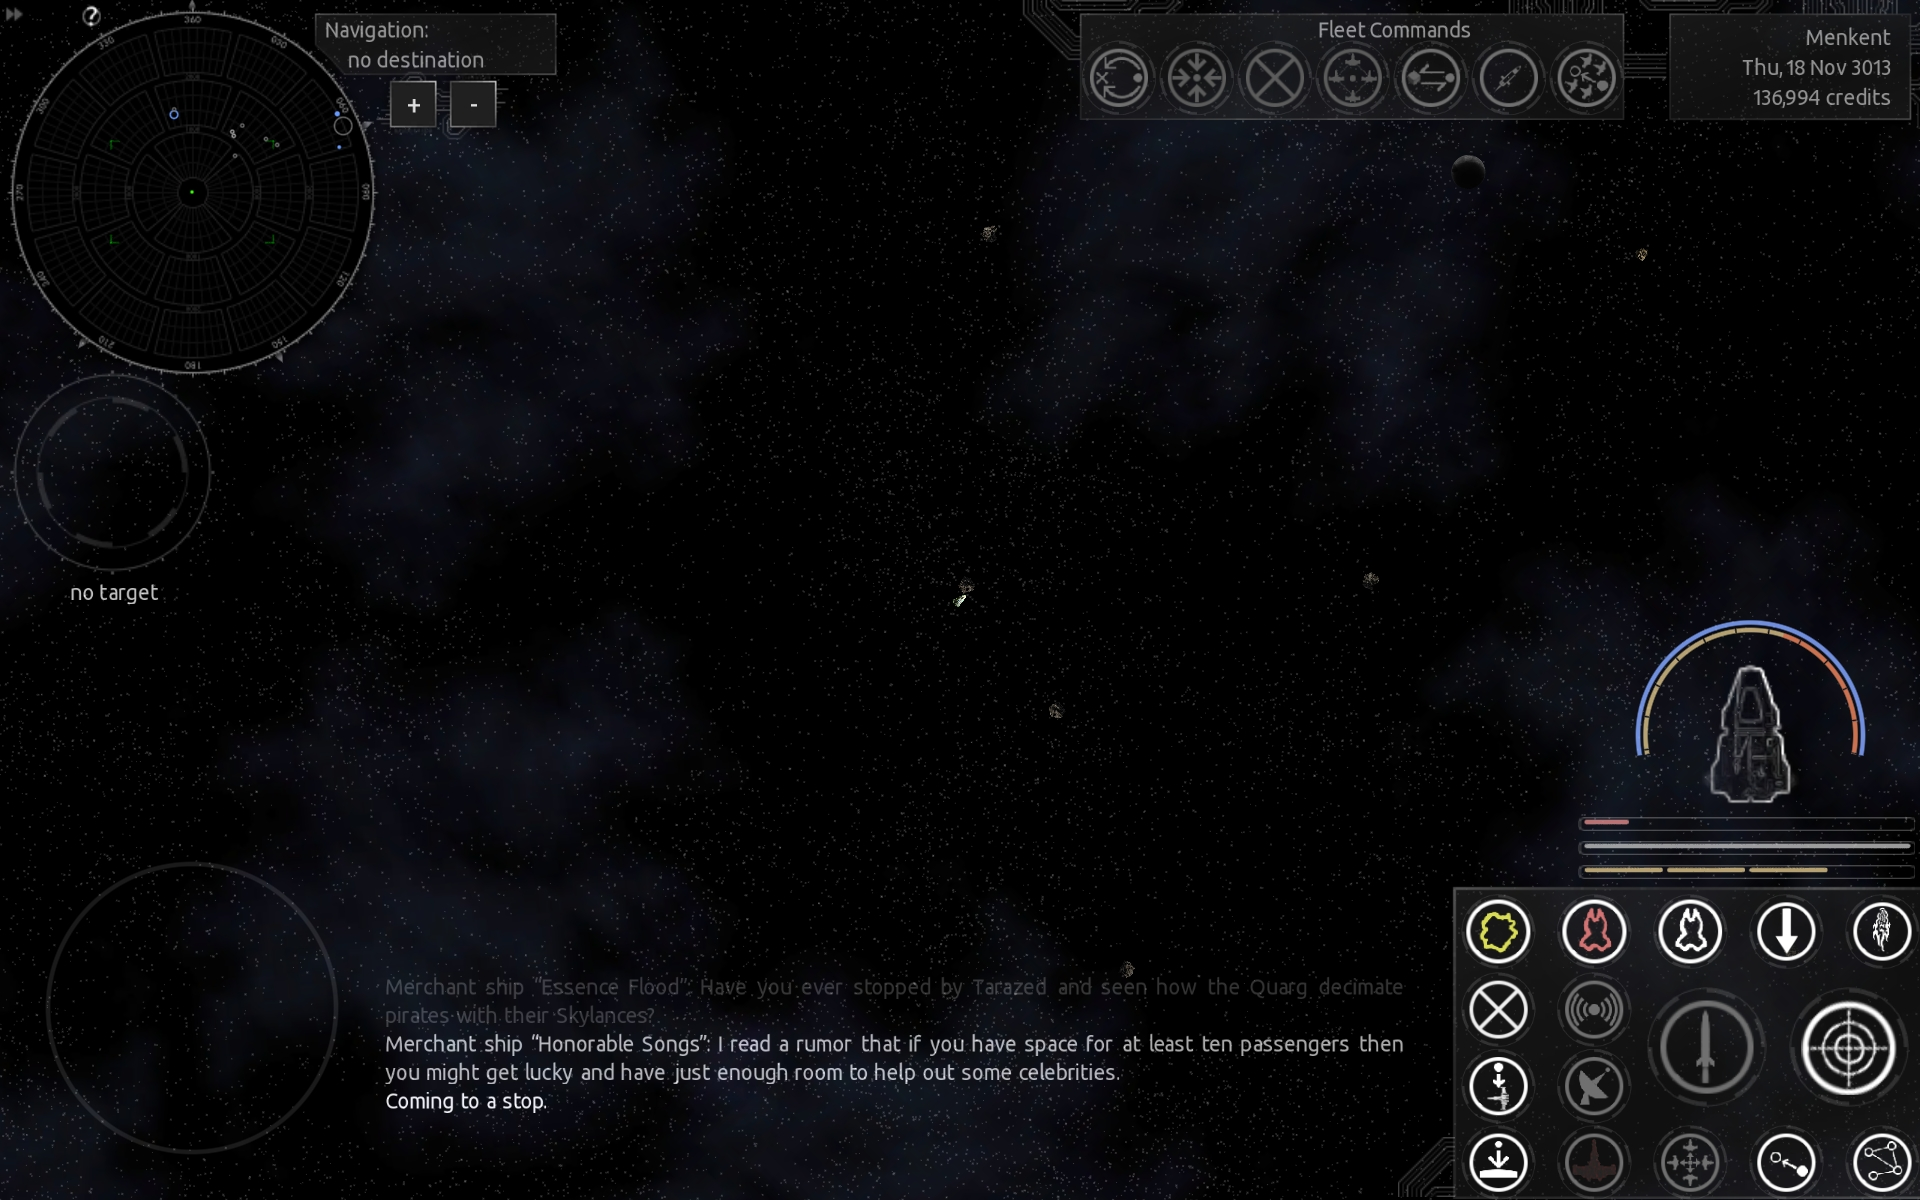
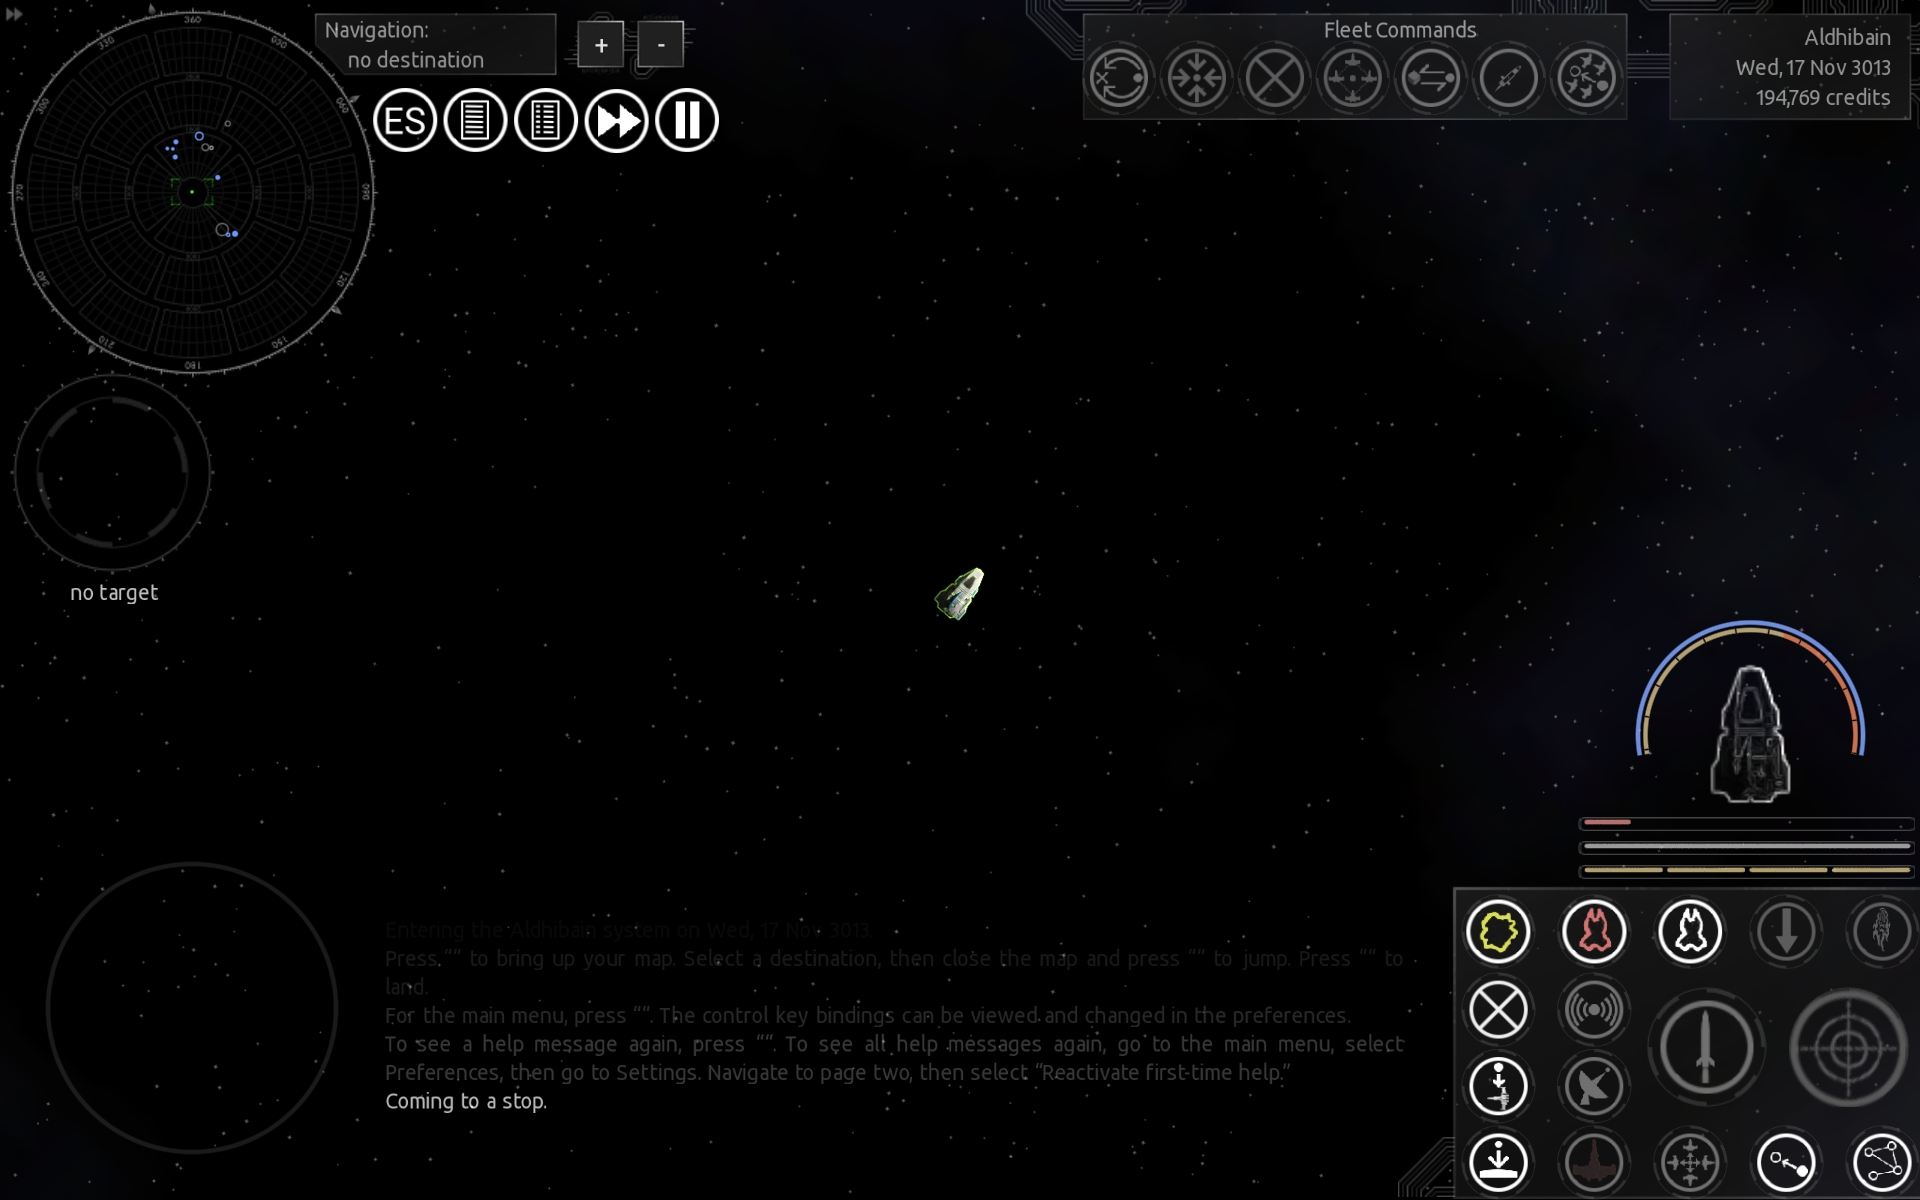
update additional.command.buttons.radial

diff --git a/myplugins/additional.command.buttons.radial/README.md b/myplugins/additional.command.buttons.radial/README.md
@@ -15,9 +15,26 @@ This plugin<br>
 - puts images behind the buttons, to grey out unavailable.<br>
 - changes the ship hud<br>
 <br>
+merged the plugin landing.images.android:
+Moves the landing image above the textbox, instead of behind the textbox.<br>
+<br>
+In case parts of the UI/the buttons are outside the screen, try rescaling your UI in the ES options<br>
+If that doesn't help, open the zip, edit 'additional.command.buttons.radial/data/planet.txt' and change line 2 to 7 to:<br>
+	image "land"
+		center -60 -150
+		dimensions 250 135
+	sprite "ui/frame"
+		center -60 -150
+		dimensions 265 150
+That resizes the landing image and the frame to their half.<br>
 <br>
 <br>
 Changelog:<br>
+<br>
+2025-06-06<br>
+merged with plugin landing.images.android<br>
+added new line of buttons to top left<br>
+added more greyed out buttons<br>
 <br>
 2025-04-26<br>
 added greyed-out attack button if you can't attack<br>
